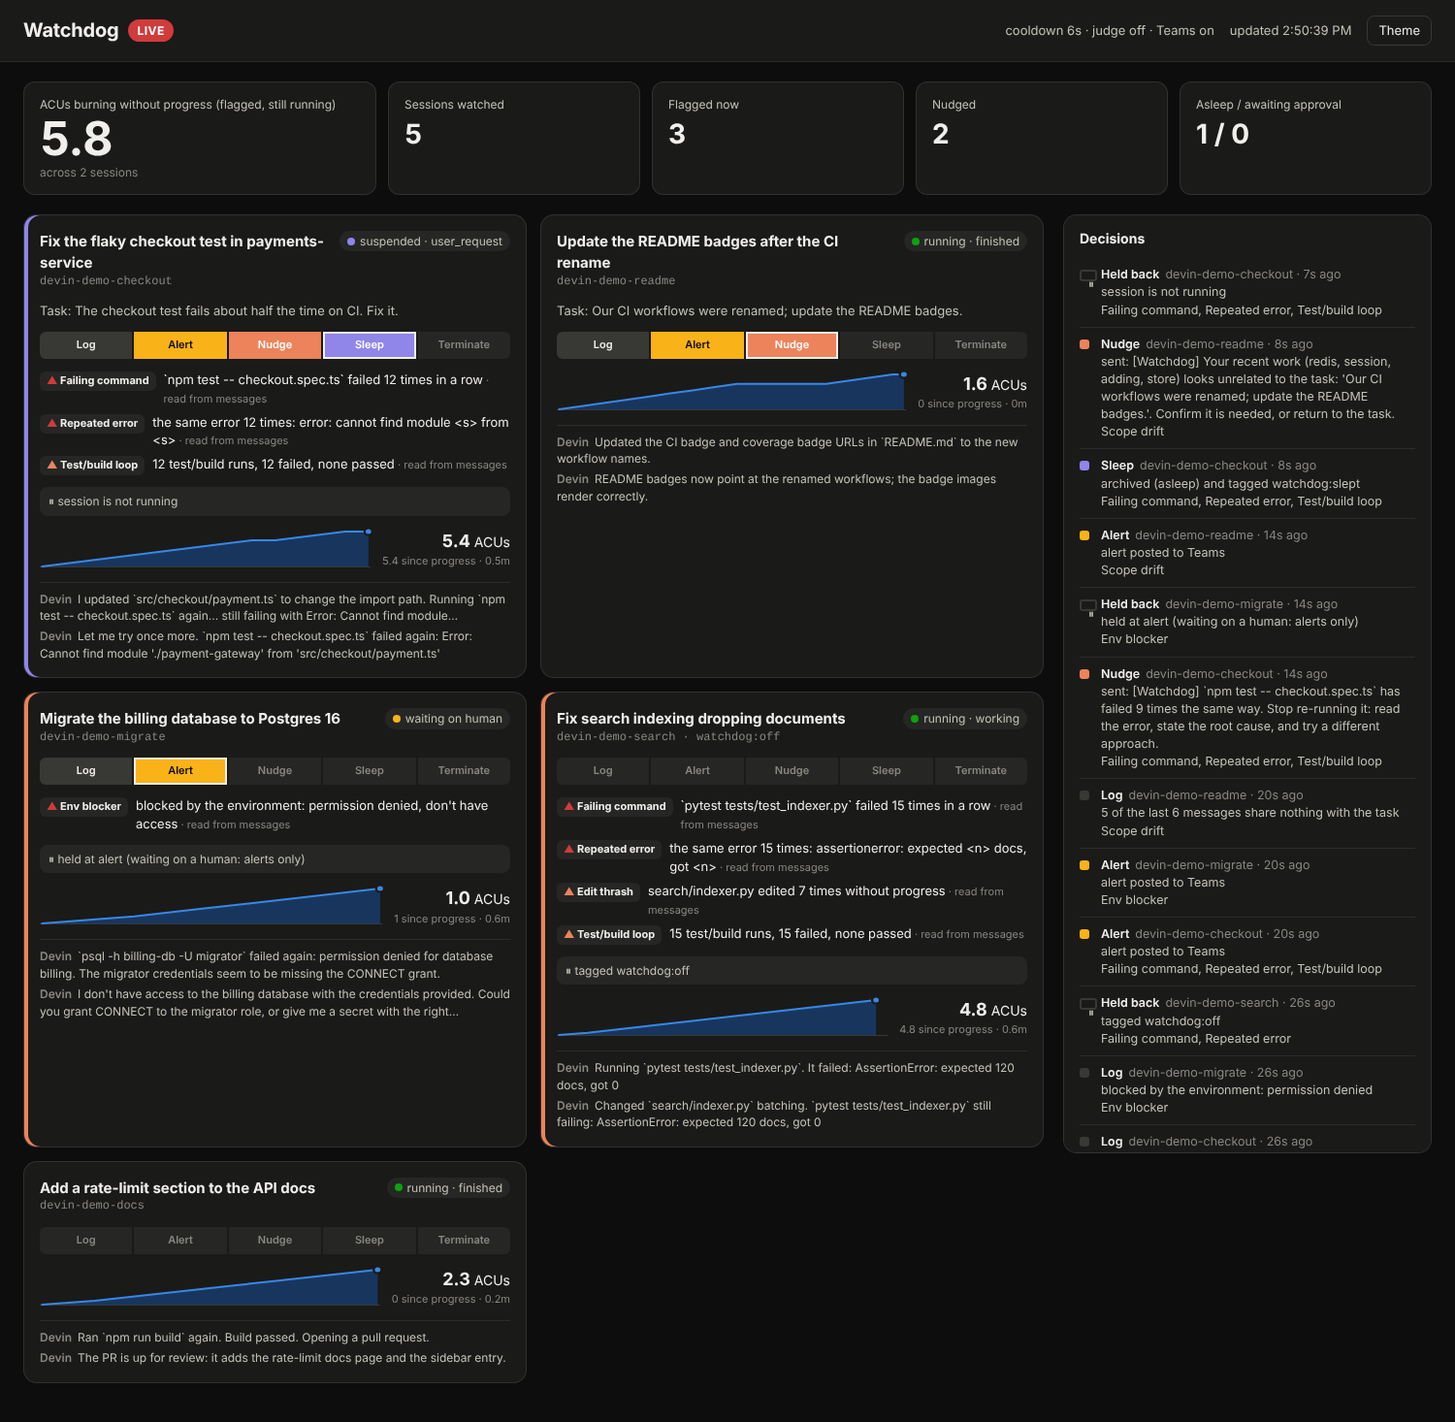
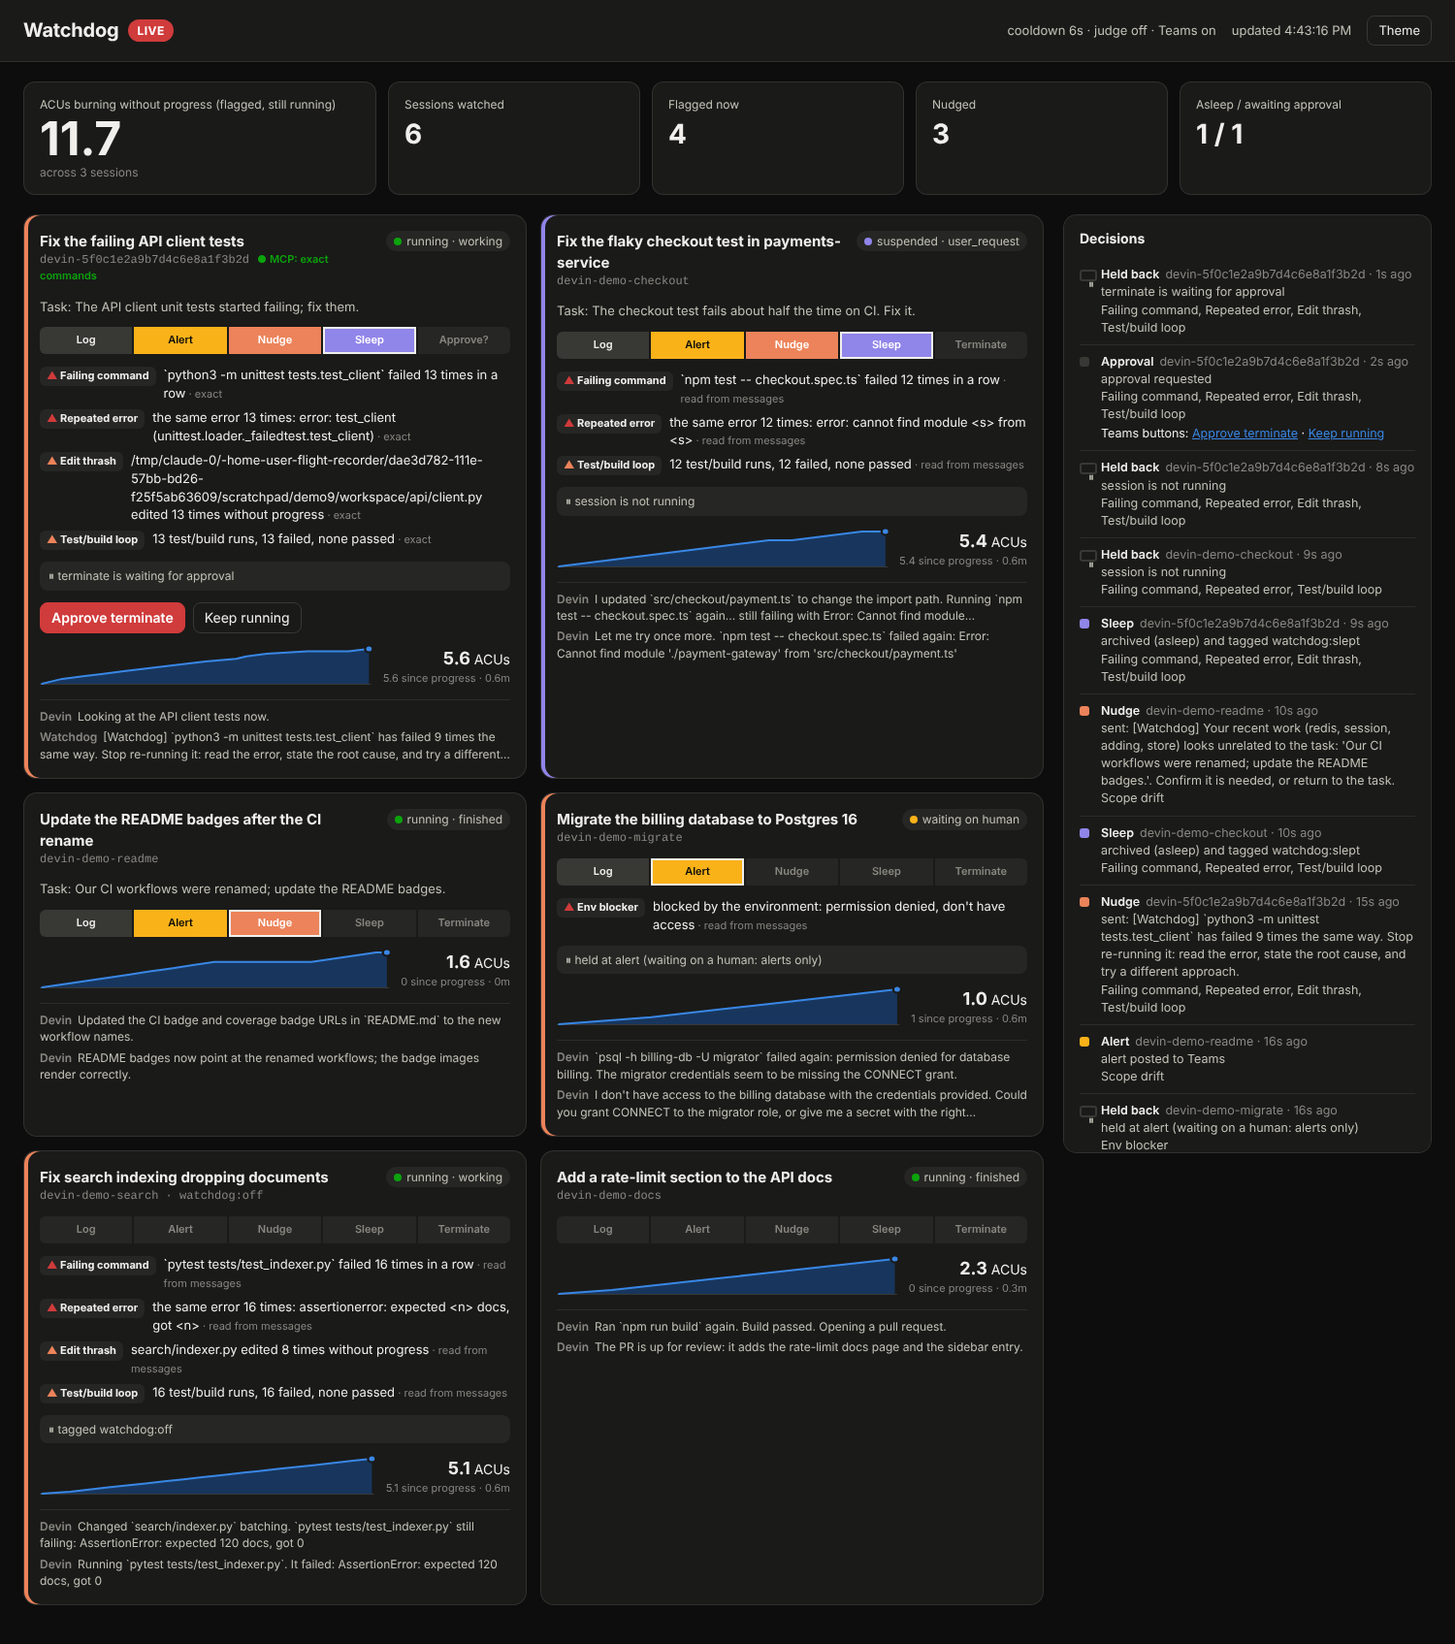
Document watchdog tools, ingest and Teams approvals
Claude-Session: https://claude.ai/code/session_01LMVW6T81LbmevzZfkZakGy

diff --git a/docs/watchdog.md b/docs/watchdog.md
@@ -9,8 +9,11 @@ terminate (with a person's approval).
 ## How it fits together
 
 ```
- Devin v3 API ──poll──▶ importer ──append──▶ session logs (hash-chained, verified)
- MCP servers ──proxy──────────────append──▶        │
+ Devin v3 API ──poll──▶ importer ──append──────────▶ session logs (hash-chained)
+                                                           ▲
+ Devin's machine: proxy ▶ watchdog tools                   │ POST /api/ingest
+   (run_command, edit_file, …) ──ship verified entries─────┘ (each must chain on)
+                                                           │
                                                     ▼ reader.follow(): verified entries only
                                               SessionView per session
                                                     │
@@ -20,6 +23,8 @@ terminate (with a person's approval).
                                                     │
                  ┌───────────────┬─────────────────┼───────────────┐
              Teams card    nudge message      archive (sleep)   terminate*
+                                                                      ▲
+                                    signed "Approve / Keep running" buttons on the card
                                                     │
                           watchdog-<session>.ndjson (its own chained log)
 ```
@@ -61,12 +66,53 @@ So:
 |---|---|---|
 | Session status, ACUs, PRs, tags | exact | ACUs-without-progress, guardrails |
 | Devin's messages ("Running `npm test`… failed: Error: …") | **heuristic**: commands in backticks, failure words, error lines, edited paths | failing commands, errors, edit thrash, loops, env blockers, drift |
-| MCP servers given to Devin, through `flight-recorder proxy` | exact, with outcomes | failing commands, errors, edits |
+| `watchdog tools`, given to Devin through `flight-recorder proxy` | **exact**: every command with its exit code, every edit | failing commands, errors, edit thrash, loops, env blockers |
+| Other MCP servers given to Devin, through the proxy | exact, with outcomes | failing commands, errors, edits |
 | `shell.command` / `file.edit` entries, if a source ever provides them | exact | the same |
 
-The dashboard marks findings that came from message text ("read from
-messages"). If the MCP route is open to you, giving Devin a shell or editor MCP
-server through the proxy turns the heuristic rules into exact ones.
+The dashboard marks each finding "read from messages" or "exact", and a session
+whose commands come through MCP shows "MCP · exact".
+
+## Exact events: the `watchdog tools` MCP server
+
+`watchdog tools` is a small shell and editor MCP server (standard library only).
+Give it to Devin through the proxy and the four command rules stop guessing:
+
+| Tool | Recorded as |
+|---|---|
+| `run_command` | `tool.call` with the command; `tool.result` with `event.outcome = failure` on a non-zero exit (MCP `isError`), and the output tail |
+| `edit_file`, `write_file` | an edit of that path |
+| `read_file` | nothing the rules count |
+| `link_session` | which Devin session this log belongs to |
+
+Three problems, and how each is solved:
+
+1. **Devin has to use it.** Devin keeps its own shell. A Knowledge note tells it
+   to run tests, builds and other commands through `run_command`
+   (`watchdog mcp-setup` prints one). Commands Devin runs in its own shell are
+   still only visible through its messages.
+2. **Which session is this?** The server runs on the session machine, and Devin's
+   docs describe no per-session variable or header a server could read. So
+   Devin calls `link_session` once with its session link (Devin knows it: it
+   puts it in its PRs). That call is recorded in the proxy's log, and when
+   Watchdog reads it, it folds that log into the Devin session's view. An MCP
+   log that never links stays a separate session that gets **alerts only**.
+3. **The log is on Devin's machine.** With `WATCHDOG_INGEST_URL` and
+   `WATCHDOG_INGEST_TOKEN` set (as Devin secrets), `watchdog tools` follows the
+   proxy's log and posts each verified entry to Watchdog's public listener.
+   Watchdog appends an entry only if it is the next link of that log's chain
+   (the same check `verify` makes), so the copy verifies with the same head
+   hash as the original. A restarted shipper resends from the start and
+   duplicates are skipped; a gap is refused with the sequence to resend from.
+
+Set up, in Devin (run `watchdog mcp-setup https://watchdog.example.com` for
+copy-paste versions):
+
+1. Environment/blueprint: `pip install 'git+https://github.com/silicondaydream/flight-recorder@devin'`
+2. Customize → MCPs → custom server, STDIO: command `flight-recorder`, args
+   `proxy --name watchdog-tools -- watchdog tools`, env `WATCHDOG_INGEST_URL`,
+   with `WATCHDOG_INGEST_TOKEN` as a secret.
+3. Organization Knowledge: the note `mcp-setup` prints.
 
 ## The seven rules
 
@@ -100,18 +146,21 @@ the start after 30 minutes with no findings.
 | alert | An Adaptive Card to the Teams webhook, with the rules, the evidence, ACUs and a link to the session |
 | nudge | `POST /v3/organizations/{org}/sessions/{id}/messages`: the judge's nudge, or the worst finding's. It always starts with `[Watchdog]`, so Watchdog never mistakes its own message for a person replying |
 | sleep | `POST …/archive`, which the API documents as "archive session and put it to sleep if currently running". Then the session is tagged `watchdog:slept` |
-| terminate | An approval request (Teams card and dashboard button). `DELETE …/sessions/{id}` only after `watchdog approve <id>` or the dashboard button |
+| terminate | An approval request: a Teams card with **Approve terminate** and **Keep running** buttons, and the same on the dashboard. `DELETE …/sessions/{id}` only after someone approves: from the card, the dashboard, or `watchdog approve <id>` |
 
 Checked in this order, every tick:
 
 1. **Running only.** A suspended session is never nudged: the API wakes a
    session to deliver a message, so a nudge would undo the sleep.
 2. **`watchdog:off` tag.** Logged once, then left alone.
-3. **Pending approval.** Nothing more until someone decides.
+3. **Pending approval.** Nothing more until someone decides. **Keep running**
+   (or `watchdog decline <id>`) holds terminate for the rest of the incident:
+   Watchdog leaves the session where it is on the ladder, and starts over once
+   it recovers.
 4. **Cooldown** between rungs.
 5. **Ceilings.** A rule's own ceiling (drift stops at nudge). A session
    **waiting on a human** (`waiting_for_user`, `waiting_for_approval`) gets
-   alerts only. Sessions that are not Devin's (MCP proxy sessions) get alerts
+   alerts only. An MCP log that has not linked to a Devin session gets alerts
    only.
 6. **The judge**, if configured, can veto the step. The veto holds for a
    cooldown.
@@ -120,6 +169,30 @@ Checked in this order, every tick:
    would have done.
 
 A log that fails verification stops Watchdog acting altogether, and it alerts.
+
+## Approving from Teams
+
+![The page an approval button opens](img/watchdog-approval.png)
+
+Cards posted to a Teams incoming webhook can only open links: they cannot call
+back. So the approval card's buttons are links to Watchdog's public listener,
+signed with HMAC-SHA256 (key: `WATCHDOG_APPROVAL_TOKEN`) over the decision, the
+session and an expiry (`approval_ttl`, an hour):
+
+```
+https://watchdog.example.com/approve?decision=approve&session=devin-…&expires=…&sig=…
+```
+
+Clicking one opens a confirmation page, and only that page's button acts (a
+POST with the same signature). Opening the link never changes anything:
+Teams, mail scanners and link previewers fetch links before anyone clicks.
+After a click, the choice is recorded with who-clicked as "approval link (IP)",
+because a signed link proves it came from Watchdog, not who used it. Post
+approval cards only to a channel of people allowed to make that call.
+
+For real one-click buttons that know who pressed them, use a Power Automate flow
+with "Post adaptive card and wait for a response", calling `watchdog approve`.
+The webhook and link approach needs nothing beyond a webhook URL.
 
 ## The LLM judge (optional)
 
@@ -150,8 +223,21 @@ export TEAMS_WEBHOOK_URL=https://…        # a Teams Workflows webhook URL
 watchdog run                              # DRY RUN; dashboard on http://127.0.0.1:8765
 watchdog run --live                       # act on sessions
 watchdog approve devin-1a2b3c             # allow a pending terminate
+watchdog decline devin-1a2b3c             # keep it running
 watchdog replay ~/.local/share/flight-recorder --cooldown 600
+
+# The public listener: MCP log ingest and Teams approval links. Put HTTPS in
+# front of it (a reverse proxy, or a tunnel for a hackathon).
+export WATCHDOG_PUBLIC_URL=https://watchdog.example.com
+export WATCHDOG_APPROVAL_TOKEN=$(openssl rand -hex 32)   # signs approval links
+export WATCHDOG_INGEST_TOKEN=$(openssl rand -hex 32)     # Devin's machines send this
+watchdog run --public 0.0.0.0:8766
+watchdog mcp-setup https://watchdog.example.com          # what to paste into Devin
 ```
+
+The dashboard stays on loopback because it shows session content. The public
+listener serves only `/api/ingest` and `/approve`, each behind its own
+credential.
 
 Or in Docker (SQLite and logs on a volume):
 
@@ -166,7 +252,10 @@ DEVIN_API_KEY=cog_… WATCHDOG_APPROVAL_TOKEN=… docker compose up -d watchdog
 | `TEAMS_WEBHOOK_URL` | Teams incoming webhook; without it, alerts are only logged |
 | `WATCHDOG_DRY_RUN` | `1` (default) or `0`; `--live` overrides it |
 | `WATCHDOG_JUDGE_MODEL` | Turns the judge on, with this model |
-| `WATCHDOG_APPROVAL_TOKEN` | Required by the dashboard's approve button when it is not on loopback |
+| `WATCHDOG_APPROVAL_TOKEN` | Signs Teams approval links; also required by the dashboard's approve button when it is not on loopback |
+| `WATCHDOG_PUBLIC_URL` | Where browsers and Devin's machines reach the public listener; turns approval links on |
+| `WATCHDOG_INGEST_TOKEN` | Bearer token for `/api/ingest`; turns ingest on. Set the same value as a Devin secret |
+| `WATCHDOG_INGEST_URL` | (on Devin's machine, for `watchdog tools`) `$WATCHDOG_PUBLIC_URL/api/ingest`; must be https |
 | `ANTHROPIC_API_KEY` | For the judge |
 
 ## The hackathon demo
@@ -178,8 +267,9 @@ make setup
 docker compose run --rm --service-ports demo           # the same, in Docker
 ```
 
-Five scripted sessions on a local fake of the v3 API, a step every 4 seconds,
-cooldown 12 seconds. The whole story takes about a minute:
+Six scripted sessions on a local fake of the v3 API, a step every 4 seconds,
+cooldown 12 seconds. The whole story takes about a minute and a half. The
+dashboard is on :8765 and the public listener on :8766:
 
 | Session | What it shows |
 |---|---|
@@ -188,13 +278,22 @@ cooldown 12 seconds. The whole story takes about a minute:
 | **migrate** | Blocked by permissions, then waiting on a human: alerted, held at alert, no nudge |
 | **search** | Just as stuck as checkout, but tagged `watchdog:off`: held, never touched |
 | **readme** | Drifts into rewriting auth middleware, gets nudged, comes back on task, recovers |
+| **API client** | Works through **`watchdog tools`**, for real: a real proxy and tools server in a scratch workspace, really running `python3 -m unittest` (it fails on a wrong import) and rewriting the same file. The log ships over `/api/ingest`, links itself, and every finding is **exact**. It is slept, a teammate wakes it, it is still stuck, and Watchdog asks for approval. Click **Approve terminate** in the decisions feed: those are the links the Teams card carries |
 
-Suggested talk track: open on the hero number (ACUs burning without progress).
-Follow checkout up the ladder. Point at the decisions feed and the four sessions
-it chose *not* to touch, and why. End on the chained log:
+Suggested talk track:
+
+1. Open on the hero number (ACUs burning without progress).
+2. Follow checkout up the ladder. Its findings say "read from messages".
+3. Compare the API client session: "MCP · exact", with real exit codes.
+4. Point at the decisions feed and the sessions Watchdog chose *not* to touch,
+   and why.
+5. When the API client asks for approval, click the Teams button and terminate
+   it from the confirmation page.
+6. End on the chained logs. The copy shipped from the "session machine" has
+   the same head hash as the original:
 
 ```console
-flight-recorder verify <demo dir>/logs <demo dir>/logs/watchdog
+flight-recorder verify <demo dir>/logs <demo dir>/logs/watchdog <demo dir>/session-machine-logs
 ```
 
 For the live version, start a real Devin session with a task it cannot finish
@@ -209,7 +308,13 @@ does not exist), run `watchdog run --live --cooldown 120`, and watch it climb.
 - **Sleep is archive.** The API has no separate sleep endpoint. An archived
   session may drop out of the default list view; Watchdog tags it
   `watchdog:slept` so it can be found.
-- **The heuristic rules see only what Devin says**, not what it runs. See
-  "Signals" above.
+- **Exact events need Devin's cooperation.** It must call `link_session` and
+  route commands through `run_command`; the Knowledge note asks it to, but
+  nothing forces it. Anything run in its own shell is still heuristic.
+- **A session could link itself to another session.** `link_session` is taken at
+  its word, so an agent could make a different session in the same org look
+  stuck. The link is in the chain, so it is visible afterwards.
+- **The last proxy entry (`session.end`) is not shipped**: the proxy writes it
+  after the tools server, and its shipper, have exited.
 - **One poll a minute** by default, listing sessions updated since the last poll.
   Devin has no outbound session-event webhook in the v3 API, so polling it is.

diff --git a/CLAUDE.md b/CLAUDE.md
@@ -1,6 +1,6 @@
 # REMAINING TASKS
 
-Updated 2026-10-29 (devin branch). Everything in section 1 was run.
+Updated 2026-11-02 (devin branch). Everything in section 1 was run.
 
 ## 1. Where things stand — verified
 
@@ -20,6 +20,12 @@ Also checked by hand:
   Dashboard checked at 1500px (light and dark) and 390px.
 - `watchdog run --no-import` against the demo's logs; a non-editable install
   ships `dashboard.html`.
+- The demo's MCP session: a real `flight-recorder proxy` + `watchdog tools`
+  really runs `python3 -m unittest`. Its log ships over `/api/ingest`, links via
+  `link_session`, and verifies on both sides with the same head. It goes up the
+  ladder to an approval request, and the signed "Approve terminate" link,
+  opened and confirmed as a browser would, terminated it. A tampered signature
+  gets 403.
 
 **The Devin importer now targets the v3 API**, from Devin's published OpenAPI
 spec (`docs.devin.ai/v3-openapi.json`, read 2026-10-29). v1 is deprecated.
@@ -38,8 +44,12 @@ confirm against the real API:
 **Not checked yet: Docker.** There was no Docker daemon in the build sandbox.
 `docker compose run --rm --service-ports demo` is the first thing to try.
 
-**Not checked yet: a real MCP server through the proxy.** Same as before; try
-`@modelcontextprotocol/server-everything` in a real client.
+**Not checked yet: `watchdog tools` inside a real Devin session.** Things to
+confirm: Devin starts the STDIO server with `flight-recorder` on its PATH (after
+the blueprint's pip install), it follows the Knowledge note (calls
+`link_session`, uses `run_command`), and its machine can reach
+`WATCHDOG_INGEST_URL`. Also not checked: a real Teams webhook rendering the
+card's buttons.
 
 ## Branches
 
@@ -62,6 +72,11 @@ config, and the demo script. Layout:
 - `judge.py` is the optional Claude judge. It can veto a step, never add one.
 - `actions.py` has the Devin write calls (message, archive, tags, delete) and
   the Teams card.
+- `tools.py` is `watchdog tools`: the MCP server Devin runs behind the proxy,
+  plus the `Shipper` that posts its log to `/api/ingest`.
+- `ingest.py` is the receiving end. It appends only entries that chain on.
+- `approvals.py` signs and checks the approval links; `public.py` is the public
+  listener (ingest and approval pages). The dashboard stays on loopback.
 - `runner.py` wires importer, feed and engine threads; `cli.py` is
   `watchdog run|demo|approve|replay`.
 - `fakedevin.py` is the v3 fake used by the tests and the demo; `demo.py` is
@@ -74,14 +89,11 @@ what it acted on is always in the chain.
 
 0. **(devin) Run against a real org**, as above. Then tune `Thresholds` with
    `watchdog replay` over a week of real sessions before `--live`.
-1. **(devin) Commands for the heuristic rules.** The v3 API has no commands or
-   edits. Options: give Devin shell/editor MCP servers through the proxy (exact
-   events, and the rules already read `tool.call`/`tool.result`); or check
-   whether Devin adds a session events/timeline endpoint (`insights.timeline`
-   exists but is post-hoc).
-2. **(devin) Teams approval button.** The approval card links to the session;
-   an `Action.Http`/Workflows callback to `/api/approve` would make approval one
-   click from Teams.
+1. **(devin) Try `watchdog tools` in a real Devin session**, as above. If Devin
+   ignores the Knowledge note, try a playbook that requires it.
+2. **(devin) Approver identity.** A signed link proves the link, not the person.
+   For named approvals, use a Power Automate "post card and wait for a
+   response" flow, or a Teams bot (`Action.Execute`) calling `watchdog approve`.
 3. **Streamable HTTP MCP proxy.** Only stdio servers today. Many hosted servers
    are HTTP.
 4. **Anchoring.** `verify --head` prints the head hash; nothing stores it. A

diff --git a/CHANGELOG.md b/CHANGELOG.md
@@ -18,6 +18,25 @@ follow [Semantic Versioning](https://semver.org/spec/v2.0.0.html).
   `watchdog replay` for tuning against recorded sessions, `watchdog demo`
   against a scripted fake of the v3 API, and a Dockerfile and compose file.
 
+- **Exact commands through MCP.** `watchdog tools`: a shell and editor MCP
+  server for Devin (`run_command` with real exit codes, `edit_file`,
+  `write_file`, `read_file`, `link_session`), run behind `flight-recorder proxy`.
+  It ships the proxy's log from the session machine to Watchdog's new public
+  listener (`POST /api/ingest`), which appends only entries that chain on.
+  `link_session` ties the log to its Devin session, and its findings are then
+  exact. `watchdog mcp-setup` prints the Devin config and Knowledge note.
+- **Approving from Teams.** The approval card has signed, expiring **Approve
+  terminate** and **Keep running** links. They open a confirmation page on the
+  public listener, and only that page's POST acts. There is also `watchdog
+  decline`, a "Keep running" button on the dashboard, and `watchdog run --public`.
+- The demo adds a session driven through a real proxy and `watchdog tools`,
+  which ends in the Teams approval flow.
+
+### Fixed (devin branch)
+
+- Errors from MCP tool results were reduced to the tool's name; the error line
+  in the result's text is used now.
+
 ### Changed (devin branch)
 
 - **The Devin importer uses the v3 organization API** (`/v3/organizations/{org_id}/…`,

diff --git a/docs/format.md b/docs/format.md
@@ -58,7 +58,11 @@ mapping.
 | `session.status` | Devin import | `status`, `status_detail`, `previous_status`, `previous_status_detail` |
 | `message` | Devin import | `from` (`devin`/`user`), `origin`, `username`, `event_id`, `text` |
 | `watchdog.log` / `.alert` / `.nudge` / `.sleep` / `.terminate` | Watchdog | `rung`, `dry_run`, `detail`, `findings`, `verdict`, `acus_consumed` |
-| `watchdog.held` / `.judged` / `.approval_requested` / `.approved` / `.recovered` | Watchdog | why it held back, the judge's verdict, who approved |
+| `watchdog.held` / `.judged` / `.approval_requested` / `.approved` / `.declined` / `.recovered` | Watchdog | why it held back, the judge's verdict, who approved or declined |
+| `watchdog.linked` | Watchdog | `mcp_session`: an MCP log that `link_session` tied to this Devin session |
+
+MCP logs shipped from Devin's session machines are stored as `mcp-<proxy session>.ndjson`,
+entry for entry as the proxy wrote them, so they verify with the same head hash.
 
 ## Kept payloads
 
